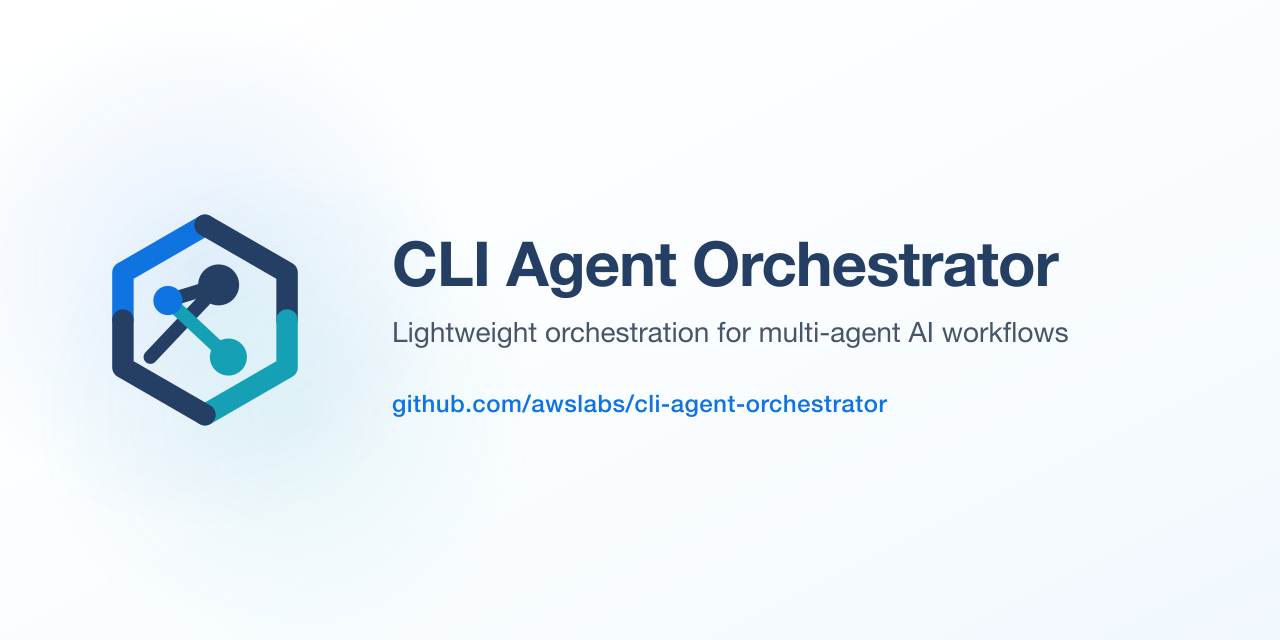
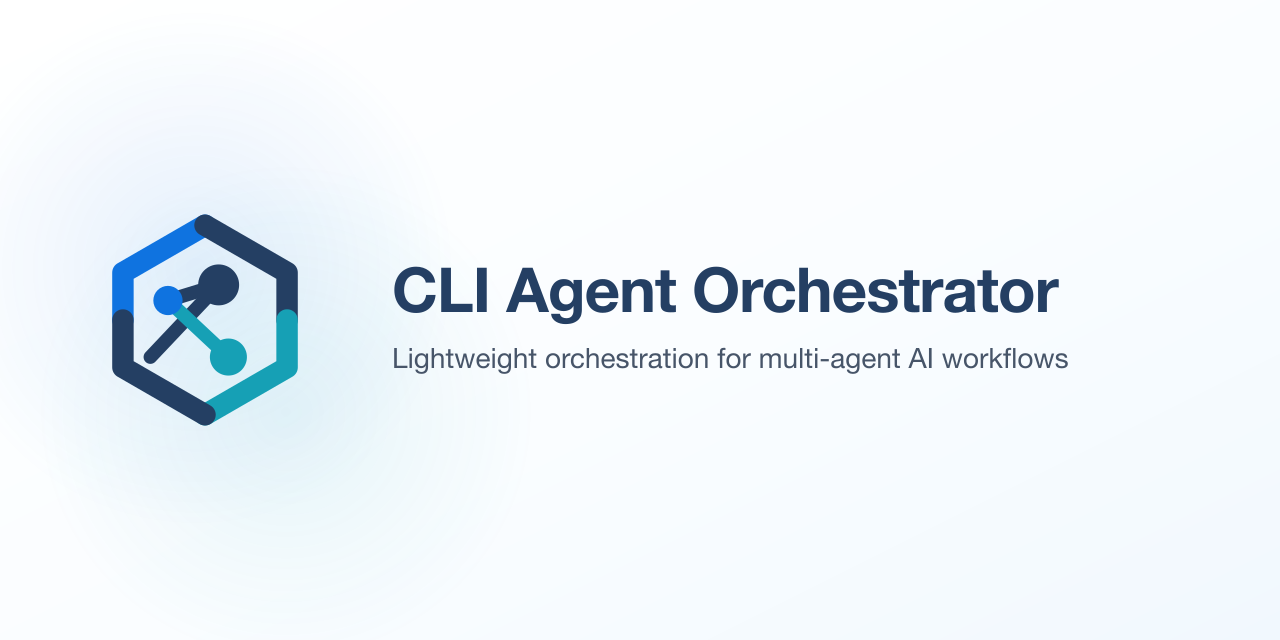
fix(brand): drop the repo URL from the social card (#688)

Changed region(s): [[0.2812, 0.375, 0.8438, 0.5938], [0.3125, 0.625, 0.6875, 0.6562]]

diff --git a/docusaurus/README.md b/docusaurus/README.md
@@ -136,10 +136,11 @@ long description and PyPI disallows `<picture>`.
 
 That same constraint applies to the card. It is light, which matches PyPI, the
 official artwork, and GitHub's light theme, and it shows as a bright panel on
-GitHub's dark theme. Its text colors deviate from the palette on purpose: brand
-teal on white measures 3.1:1 and only scrapes past WCAG as large text, so the
-URL uses the brand blue at 4.6:1 instead. Regenerate it after editing the
-source:
+GitHub's dark theme. It carries the name and tagline only, not the repo URL: as
+a README banner the URL would sit on the page it points at, and in an unfurl the
+link is already the thing being unfurled. Regenerate the card after editing the
+source — the text baselines are measured against the mark's ink box, so re-check
+the centering if you change the type sizes or the mark's transform:
 
 ```bash
 cd static/img
